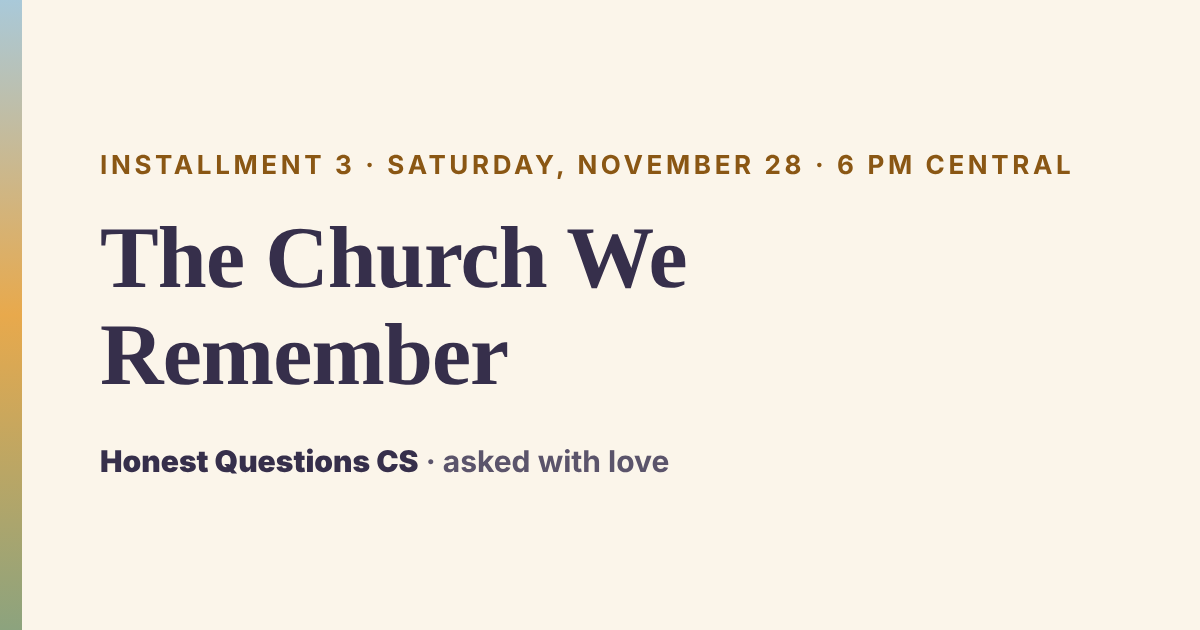
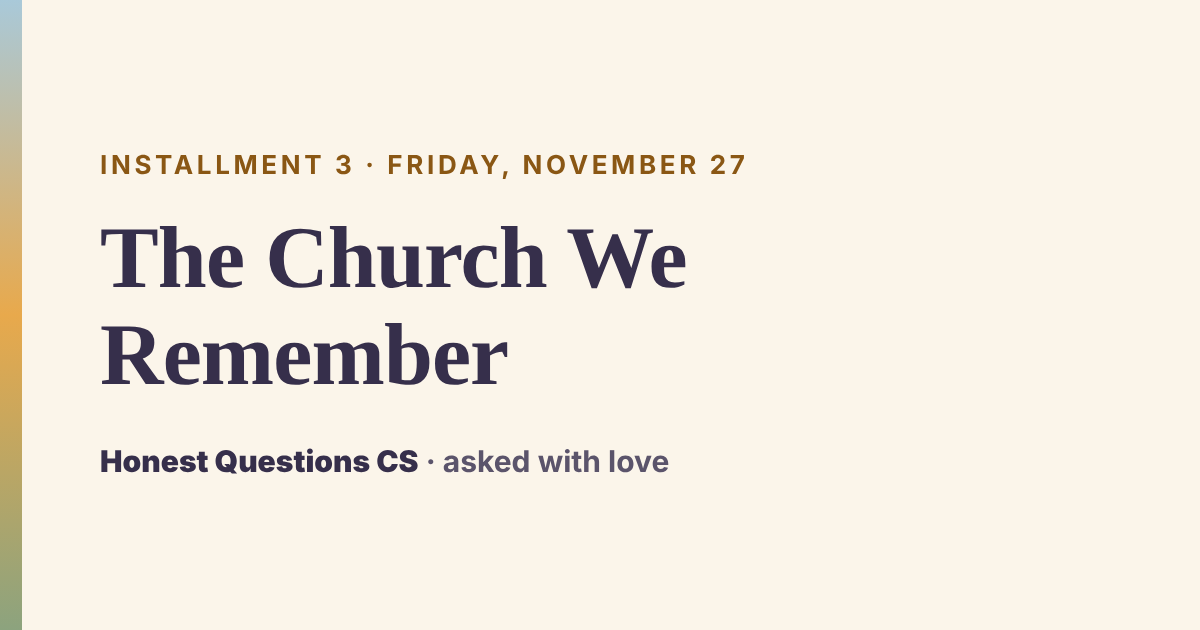
Add Part 3 (The Church We Remember) to the page, live 5 PM Central Fri Nov 27; card, permalink and link card updated (#63)
Claude-Session: https://claude.ai/code/session_014rnYdsF7BDCfePLPQiGgsV

Changed region(s): [[0.3083, 0.2413, 0.8942, 0.3016]]

diff --git a/honest-questions/posts/3.html b/honest-questions/posts/3.html
@@ -1,0 +1,57 @@
+<div class="series-note"><strong>Part 3 of 3</strong> in <em>Honest Questions CS</em>, a short series on the questions beneath the surface, the ones that rarely get asked out loud. I&rsquo;m not the only one asking them. I love Christian Science, and joining in is what I&rsquo;ve been led to do. New here? You don&rsquo;t need to have read the others, though they&rsquo;re above.</div>
+
+<p>A few years ago I went to the church I grew up in. I had my lesson printed out, and during the service I was writing in the margins, the way I always do. No squeaky pen. I was in a nice sweater and jeans, sitting cross-legged in the chair.</p>
+
+<p>I could feel the room tighten. <em>That&rsquo;s not what we do.</em></p>
+
+<p>And I understood it. That church is comfortable for them. It&rsquo;s a memory they love, and it isn&rsquo;t bad. There just wasn&rsquo;t bandwidth for my way of showing up. I wasn&rsquo;t angry. I was sad, and I think they were, too.</p>
+
+<p>I&rsquo;d felt a version of that before. On a road trip, I walked into a beautiful church with a few people in it and music from a recording, and I was a stranger there, too. This time I was a stranger in the room where I grew up.</p>
+
+<p>Same me. Same love for both rooms. Both rooms were keeping something precious safe: the first had kept the doors open, the second had kept the memory intact. Neither was wrong. And in both, someone new, even someone from the family, had nowhere to land.</p>
+
+<p>My first reaction was indignant. That&rsquo;s the rebel in me. Then something quieter came. I thought this was my home and these were my people, and I didn&rsquo;t feel accepted. It made me want to find another church. I didn&rsquo;t, because of my loyalty there. And I wonder how many people feel the same way: wishing for a different setup, and staying out of loyalty. I don&rsquo;t think they&rsquo;re few. I think they&rsquo;re quiet.</p>
+
+<p>Some of what closes the door isn&rsquo;t said at all. It&rsquo;s felt. I felt judgment in that room, and I was judging back. We belong to a religion that leaves judgment to God, and most of us don&rsquo;t notice when we do it, me included.</p>
+
+<p>We say, and I believe, that we are unlimited, whole, complete, and perfect. That&rsquo;s true, and &ldquo;it&rsquo;s already perfect and whole&rdquo; can still end a conversation before it begins, because it can sound like there are no chapters. But life has chapters, and so do churches. Mrs. Eddy is honest about that, in her own words:</p>
+
+<ul>
+  <li>&ldquo;Material belief is slow to acknowledge what the spiritual fact implies.&rdquo;</li>
+  <li>&ldquo;If your endeavors are beset by fearful odds, and you receive no present reward, go not back to error.&rdquo;</li>
+  <li>&ldquo;&hellip;gain a little each day in the right direction, till at last he finishes his course with joy.&rdquo; (<em>Science and Health</em>, pp. 21&ndash;22)</li>
+</ul>
+
+<p>She is candid about the difficulty and steady about the direction. And &ldquo;an improved belief cannot retrograde&rdquo; (p. 442). What has truly improved stays improved. Saying this better isn&rsquo;t walking backward. It&rsquo;s the next step.</p>
+
+<p>To the people in that room, the ones who love it exactly as it is: you&rsquo;re loved, and I&rsquo;m not leaving. I&rsquo;m trying hard not to judge you back. Most of us were never taught how to have conversations like this. So here&rsquo;s my question: how can we have both? What you need, what I need, and everything in between?</p>
+
+<p>At our Thanksgiving table this year, we played a game with conversation starters. One asked: would you rather be the best player on the worst team, or the worst player on the best team? Every one of us picked the best team. None of us felt like the worst. We felt like learners, and we all wanted to be pulled up. The best team is divine Love, and we&rsquo;re already on it.</p>
+
+<p>There&rsquo;s a common mistake in change: treating the people who built something as the obstacle. They&rsquo;re the reason there&rsquo;s anything to carry forward. Every change begins with an ending, and people who loved the old way need room to mourn it. That isn&rsquo;t resistance. That&rsquo;s love.</p>
+
+<p>What is the legacy we&rsquo;re protecting? Mrs. Eddy answers plainly: &ldquo;the demonstration of divine Love casting out error and healing the sick&hellip; as must be the case in the cycles of divine light&rdquo; (<em>Science and Health</em>, p. 135). Our chapters will look different. The Love doesn&rsquo;t. And your not looking at this is just as divinely inspired as my being led to look at it and ask. It will take all of us: the ones who keep the light on, and the ones who carry it out the door.</p>
+
+<p>So here&rsquo;s what I&rsquo;d love to hear in every church meeting and group discussion: the loving questions about how we move forward together, serving the needs of this world. Three table questions, my plain principles in question form:</p>
+
+<p class="table-q"><strong>1. Honor.</strong> What do we love about how we gather, and want to honor and carry into the future?</p>
+
+<p class="table-q"><strong>2. Welcome.</strong> Who isn&rsquo;t here yet, or used to be, and what might they need from us?</p>
+
+<p class="table-q"><strong>3. Build.</strong> What&rsquo;s one small thing we could build together before we meet again?</p>
+
+<p>Listen without fixing. Speak for yourself. No judging, including ourselves. Not a change to the service, but a conversation around it.</p>
+
+<div class="test-this">
+  <h3>Two claims to test</h3>
+  <p>I promised each installment would give you claims to test. Here are two, one objection from inside our community, one from outside:</p>
+
+  <p><strong>1. &ldquo;Changing how we say it means changing what it is.&rdquo;</strong> Say one thing you often say about Christian Science in plain words to someone new. Did the Love change? Did anything true get lost?</p>
+
+  <p><strong>2. &ldquo;Faith is just nostalgia.&rdquo;</strong> If you could keep only one thing from the church you remember, would it be the room, or the Love?</p>
+
+</div>
+
+<p>If you&rsquo;ve read this far, I hope you feel seen. Maybe you hold the room exactly as it is. Maybe you&rsquo;ve been quietly wishing for something different. Maybe you stepped away, or never came in. Whoever you are, you&rsquo;re part of this conversation. That&rsquo;s all I&rsquo;m after: to say what usually goes unsaid, in love, and to leave you a seat at the table.</p>
+
+<p>Which of the three table questions would you ask first, and who would you ask? I&rsquo;d love to hear. Thank you for walking through these three with me.</p>

diff --git a/honest-questions/p/3.html b/honest-questions/p/3.html
@@ -5,11 +5,11 @@
 <meta name="viewport" content="width=device-width, initial-scale=1">
 <title>The Church We Remember | Honest Questions CS</title>
 <meta name="robots" content="noindex, nofollow">
-<meta name="description" content="Many of us miss the full Sunday schools and busy churches we grew up in. That longing comes from love. What can it do to how we see the young people who are here now? And a few plain principles for saying this well.">
+<meta name="description" content="A few years ago I sat cross-legged in the church I grew up in and felt the room tighten. A story about nostalgia, loyalty, and chapters, and three table questions for every church meeting: Honor, Welcome, Build.">
 <meta property="og:type" content="article">
 <meta property="og:site_name" content="Honest Questions CS">
 <meta property="og:title" content="The Church We Remember">
-<meta property="og:description" content="Many of us miss the full Sunday schools and busy churches we grew up in. That longing comes from love. What can it do to how we see the young people who are here now? And a few plain principles for saying this well.">
+<meta property="og:description" content="A few years ago I sat cross-legged in the church I grew up in and felt the room tighten. A story about nostalgia, loyalty, and chapters, and three table questions for every church meeting: Honor, Welcome, Build.">
 <meta property="og:url" content="https://www.spirituallessonplans.org/honest-questions/p/3">
 <meta property="og:image" content="https://www.spirituallessonplans.org/honest-questions/og-3.png">
 <meta property="og:image:width" content="1200">
@@ -22,7 +22,7 @@
 <body style="font-family: Georgia, serif; max-width: 34rem; margin: 3rem auto; padding: 0 1rem; line-height: 1.6;">
 <p><strong>Honest Questions CS</strong></p>
 <h1>The Church We Remember</h1>
-<p>Many of us miss the full Sunday schools and busy churches we grew up in. That longing comes from love. What can it do to how we see the young people who are here now? And a few plain principles for saying this well.</p>
+<p>A few years ago I sat cross-legged in the church I grew up in and felt the room tighten. A story about nostalgia, loyalty, and chapters, and three table questions for every church meeting: Honor, Welcome, Build.</p>
 <p><a href="../#post-3">Continue to the series</a></p>
 </body>
 </html>

diff --git a/honest-questions/index.html b/honest-questions/index.html
@@ -120,8 +120,8 @@
       <p class="slot-label">Installment 3</p>
       <p class="slot-angle">Our own nostalgia</p>
       <h2 class="slot-title">The Church We Remember</h2>
-      <p class="slot-when">Saturday, November 28 &middot; 6&nbsp;PM Central</p>
-      <p class="slot-abstract">Many of us miss the full Sunday schools and busy churches we grew up in. That longing comes from love. This post asks gently what it can do to how we see the young people who are here now, and ends with a few plain principles for saying this well.</p>
+      <p class="slot-when">Friday, November 27 &middot; 5&nbsp;PM Central</p>
+      <p class="slot-abstract">A few years ago I sat cross-legged in the church I grew up in and felt the room tighten. A story about nostalgia, loyalty, and chapters, and three table questions for every church meeting: Honor, Welcome, Build.</p>
     </section>
   </div>
 

diff --git a/honest-questions/posts/2.html b/honest-questions/posts/2.html
@@ -39,4 +39,4 @@
 
 <p>Honest questions, asked in love: what&rsquo;s one thing you wish we could say out loud about our empty rooms? If you&rsquo;ve stepped away, or never came in, I&rsquo;d especially love to hear from you.</p>
 
-<p class="series-next"><strong>Next in the series:</strong><br>Part 3: <em>The Church We Remember</em>, coming soon</p>
+<p class="series-next"><strong>Next in the series:</strong><br>Part 3: <em>The Church We Remember</em></p>

diff --git a/honest-questions/style.css b/honest-questions/style.css
@@ -304,3 +304,6 @@ main { padding-bottom: 2rem; }
 .audio-label { margin: 0 0 .5rem; font: 700 .85rem/1.3 var(--sans); letter-spacing: .04em; color: var(--sky-text); }
 .audio-player audio { display: block; width: 100%; }
 .audio-note { margin: .5rem 0 0; font: .82rem/1.3 var(--sans); color: var(--ink-soft); }
+
+/* The three table questions */
+.post-body .table-q { margin: .5em 0; padding-left: .95rem; border-left: 4px solid var(--sage); }
